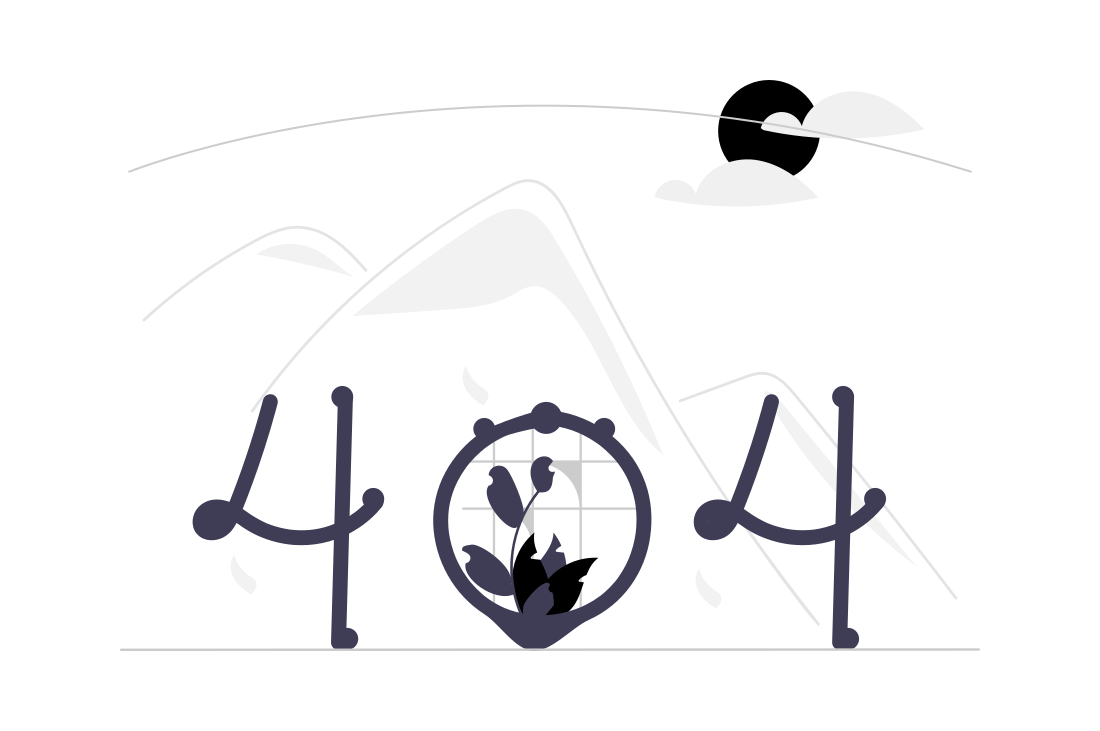
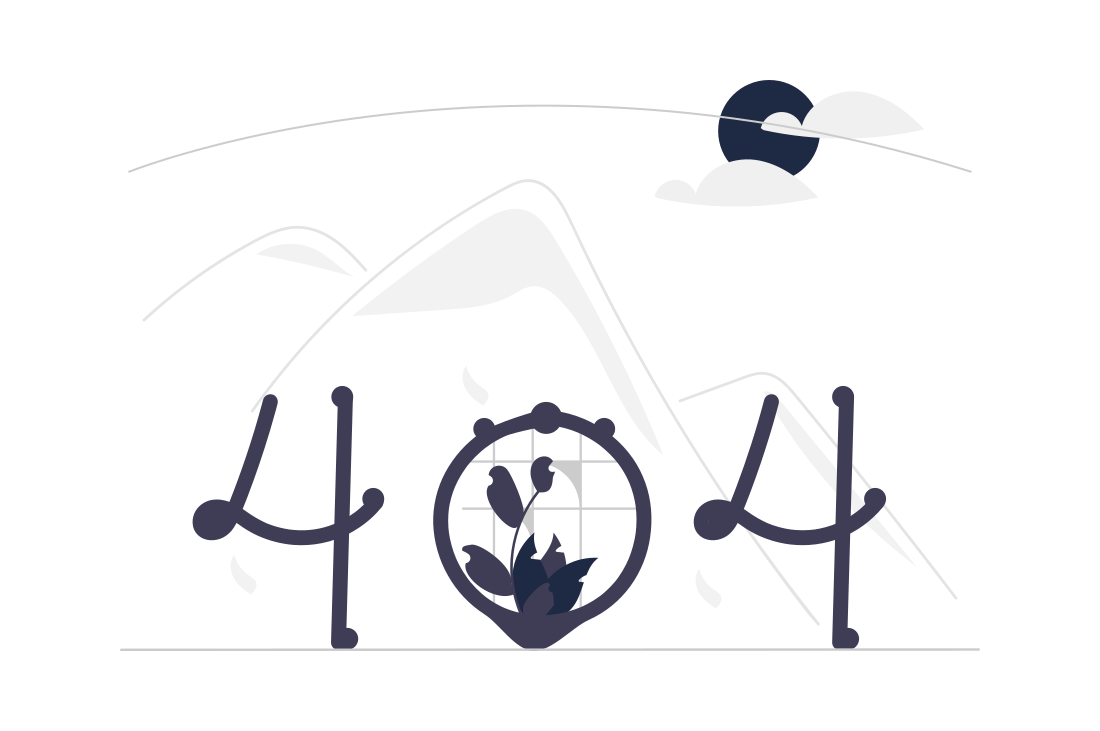
change accent color

Changed region(s): [[0.6491, 0.0903, 0.7418, 0.2408], [0.4636, 0.7223, 0.5564, 0.8427]]

diff --git a/templates/home.html b/templates/home.html
@@ -29,7 +29,7 @@ Home
             </div>
           </div>
           <div class="pt-5">
-            <input type="submit" class="button is-dark">
+            <input type="submit" class="button has-text-light color">
           </div>
         </form>
       </div>

diff --git a/templates/layout.html b/templates/layout.html
@@ -18,6 +18,10 @@
       min-height: 376px;
       margin: 0 auto;
     }
+
+    .color {
+      background-color: #1E2944;
+    }
   </style>
 </head>
 
